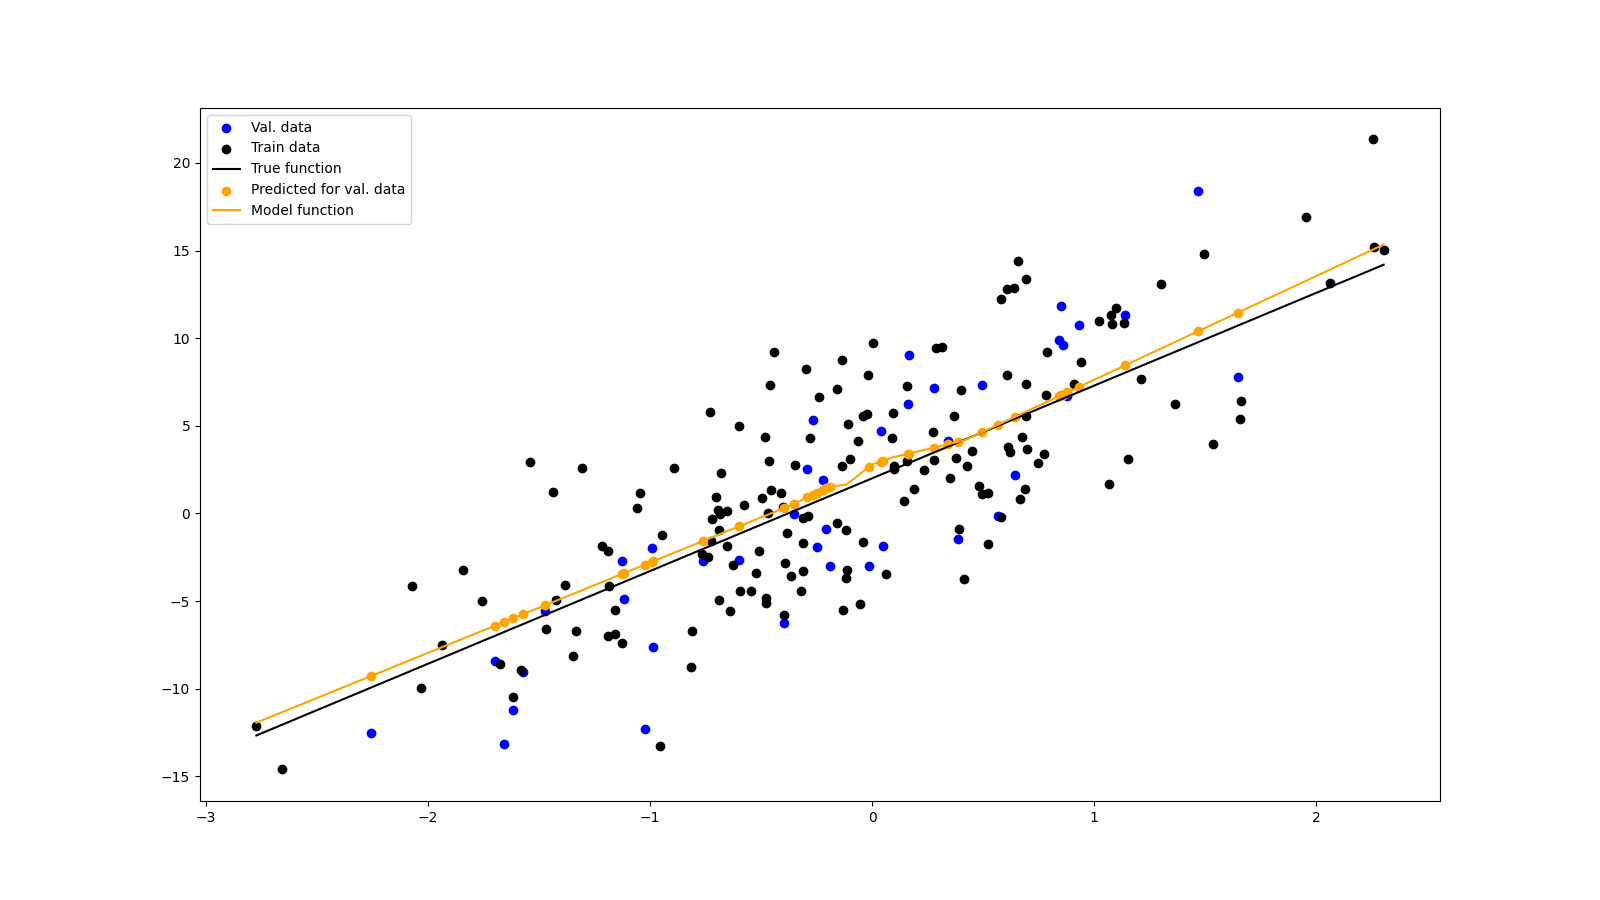
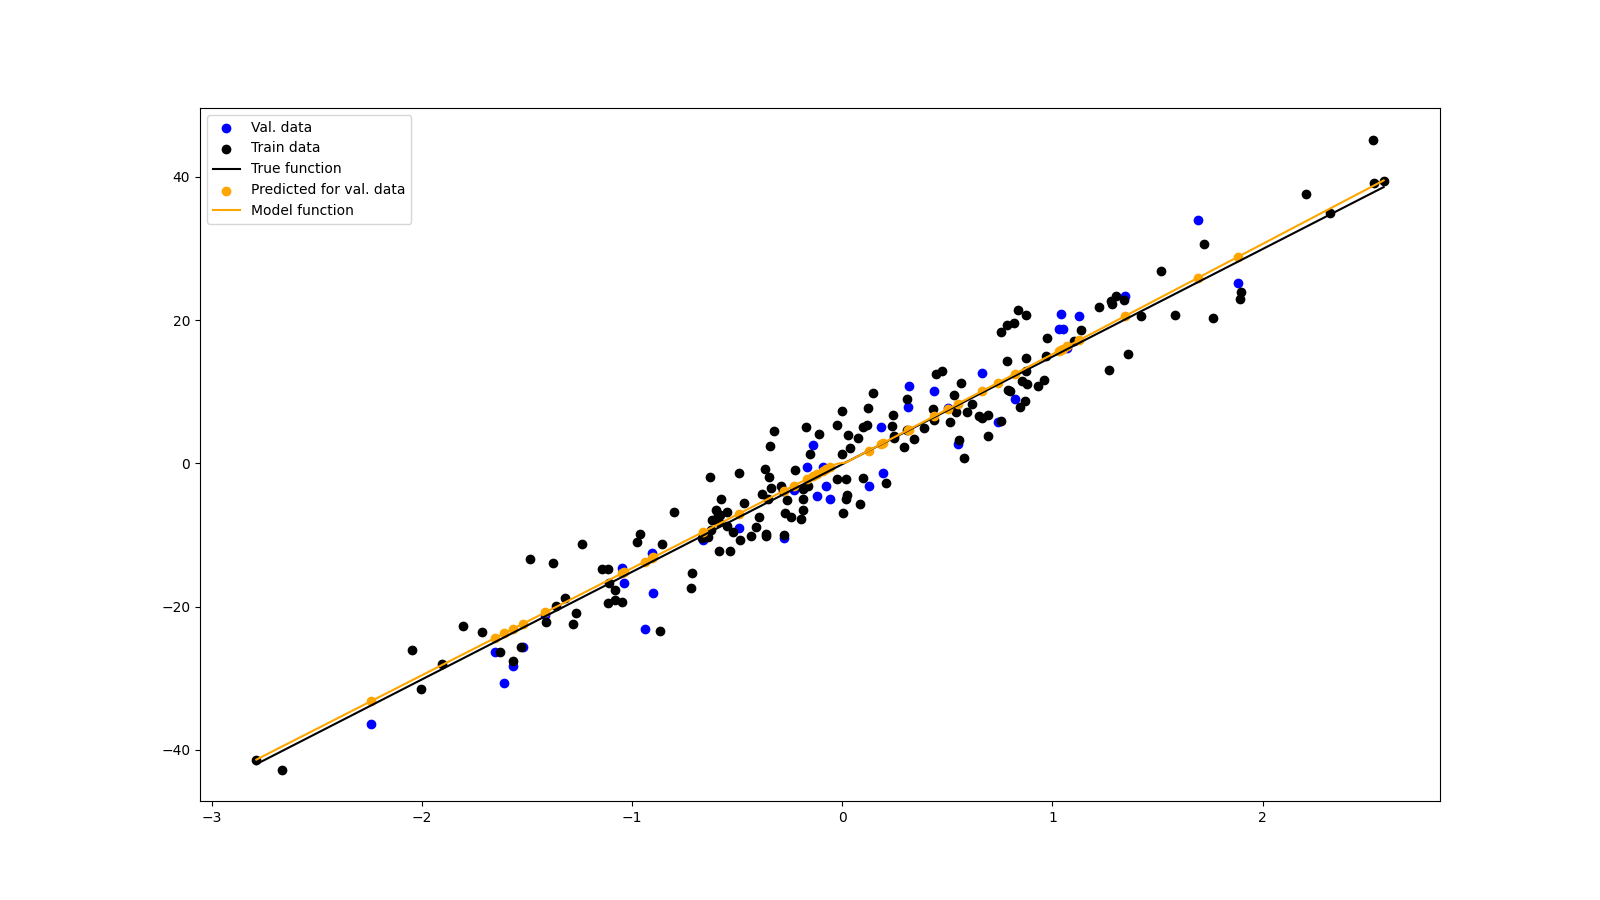
Fixed a few bugs with notebook.

diff --git a/code/simple_nn_numpy.py b/code/simple_nn_numpy.py
@@ -53,6 +53,7 @@ class SimpleNN:
         return self.linear2
 
     def backward(self, dlinear2):
+        # print(self.relu1.shape, self.w2.shape, self.b2.shape, dlinear2.shape)
         drelu1, self.dw2, self.db2 = linear_backward(self.relu1, self.w2, self.b2, dlinear2)
         dlinear1 = relu_backward(self.linear1, drelu1)
         dinp, self.dw1, self.db1 = linear_backward(self.inp, self.w1, self.b1, dlinear1)
@@ -64,10 +65,10 @@ class SimpleNN:
         self.b2 -= self.db2 * lr
 
     def _print_mean_and_var(self, X):
-        y = model.forward(X)
+        y = self.forward(X)
         print_stats("input", X)
-        print_stats("layer1", model.relu1)
-        print_stats("layer2", model.linear2)
+        print_stats("layer1", self.relu1)
+        print_stats("layer2", self.linear2)
 
 
 def noop(x):
@@ -101,11 +102,11 @@ def print_stats(name, X):
     print(f"After {name}: mean={X.mean():.2f}, variance={X.var():.3f}")
 
 def print_final_loss(y_train, y_val, train_loss, val_loss):
-        avg_train = y_train.mean()
-        predict_avg_loss_train = mse(avg_train, y_train)
-        predict_avg_loss_val = mse(avg_train, y_val)
-        print(f"Train loss={train_loss:.4f}, val. loss={val_loss:.4f}")
-        print(f"Using avg. response: train loss={predict_avg_loss_train:.4f}, val. loss={predict_avg_loss_val:.4f}")
+    avg_train = y_train.mean()
+    predict_avg_loss_train = mse(avg_train, y_train)
+    predict_avg_loss_val = mse(avg_train, y_val)
+    print(f"Train loss={train_loss:.4f}, val. loss={val_loss:.4f}")
+    print(f"Using avg. response: train loss={predict_avg_loss_train:.4f}, val. loss={predict_avg_loss_val:.4f}")
 
 def plot_losses(train_losses, val_losses):
     plt.figure(figsize=(16, 9))
@@ -116,17 +117,17 @@ def plot_losses(train_losses, val_losses):
     if save_plots: plt.savefig(f"loss_for_{name}")
     if show_plots: plt.show()
 
-def plot_data(X, X_val, y_val, X_train, y_train, true_data_func, model):
-        X = np.sort(X, axis=0)
-        plt.figure(figsize=(16, 9))
-        plt.scatter(X_val, y_val, color="blue", label="Val. data")
-        plt.scatter(X_train, y_train, color="black", label="Train data")
-        plt.plot(X, true_data_func(X), color="black", label="True function")
-        plt.scatter(X_val, model.forward(X_val), color="orange", label="Predicted for val. data")
-        plt.plot(X, model.forward(X), color="orange", label="Model function")
-        plt.legend()
-        if save_plots: plt.savefig(f"data_for_{name}")
-        if show_plots: plt.show()
+def plot_data(X, X_val, y_val, X_train, y_train, true_data_func, model, normalize_param):
+    X = np.sort(X, axis=0)
+    plt.figure(figsize=(16, 9))
+    plt.scatter(X_val, y_val, color="blue", label="Val. data")
+    plt.scatter(X_train, y_train, color="black", label="Train data")
+    plt.plot(X, true_data_func(X * normalize_param[1] + normalize_param[0]), color="black", label="True function")
+    plt.scatter(X_val, model.forward(X_val), color="orange", label="Predicted for val. data")
+    plt.plot(X, model.forward(X), color="orange", label="Model function")
+    plt.legend()
+    if save_plots: plt.savefig(f"data_for_{name}")
+    if show_plots: plt.show()
 
 
 data_types = [("linear", get_linear_data, linear), ("square", get_square_data, square), ("wave", get_wave_data, wave)]
@@ -135,15 +136,15 @@ np.random.seed(0)
 # Config
 show_plots = False
 save_plots = True
-print_mean_and_var = False
-normalize_input = False # TODO: breaks plotting the true function
+print_mean_and_var = True
+normalize_input = True
 weight_init = WeightInit.simple
 n = 200
 inp_dim = 1
 out_dim = 1
 train_split = 0.8
 hidden_dim = 20
-lr = 0.5
+lr = 0.05
 updates = 10000
 
 train_size = int(n * train_split)
@@ -154,7 +155,8 @@ for (name, get_data_func, data_func) in data_types:
     print(f"\n_______________\nFitting {name} data\n_______________")
     X, y, true_w, true_b = get_data_func(n, inp_dim, out_dim)
     true_data_func = lambda X: data_func(X, true_w, true_b)
-    if normalize_input: X = (X - X.mean()) / X.std()
+    normalize_param = (0.0, 1.0)
+    if normalize_input: normalize_param = (X.mean(), X.std()); X = (X - X.mean()) / X.std()
     
     X_train, y_train = X[:train_size], y[:train_size]
     X_val, y_val = X[train_size:], y[train_size:]
@@ -167,7 +169,8 @@ for (name, get_data_func, data_func) in data_types:
         train_predicted = model.forward(X_train)
         train_loss = mse(train_predicted, y_train)
         
-        model.backward(train_loss)
+        # print(train_loss.shape, train_loss)
+        model.backward(mse_backward(train_predicted, y_train))
         model.sgd_update(lr * (1 - i / updates))
 
         val_predicted = model.forward(X_val)
@@ -183,4 +186,4 @@ for (name, get_data_func, data_func) in data_types:
     plot_losses(train_losses, val_losses)
 
     if inp_dim == 1 and out_dim == 1:
-        plot_data(X, X_val, y_val, X_train, y_train, true_data_func, model)
+        plot_data(X, X_val, y_val, X_train, y_train, true_data_func, model, normalize_param)
